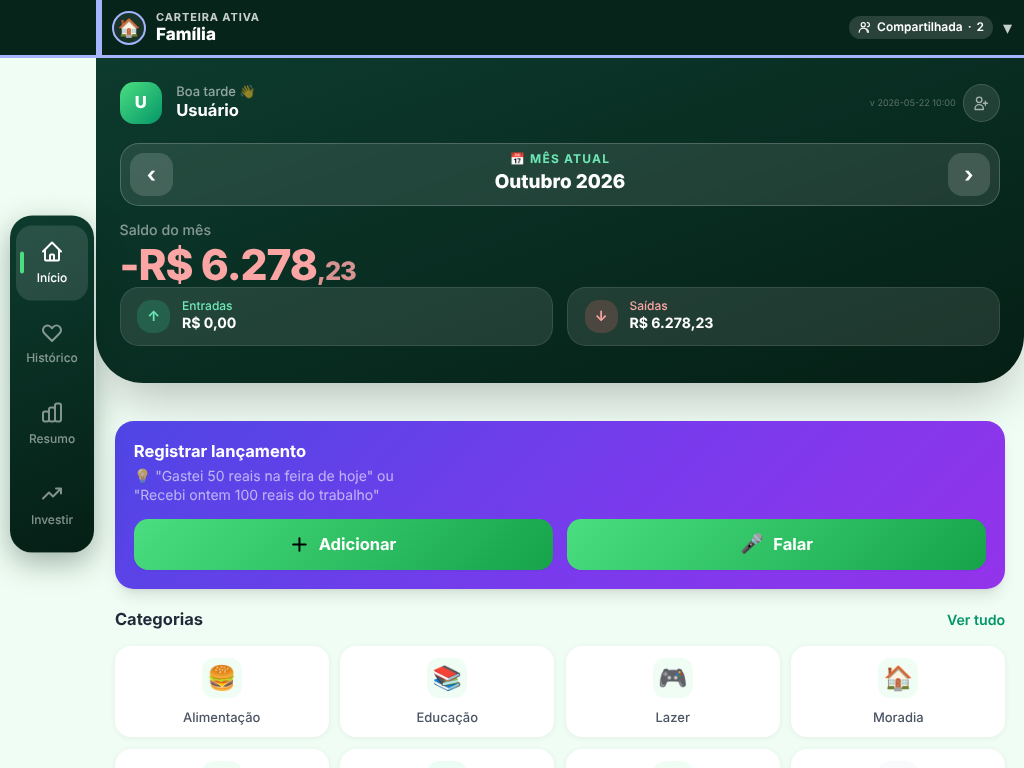
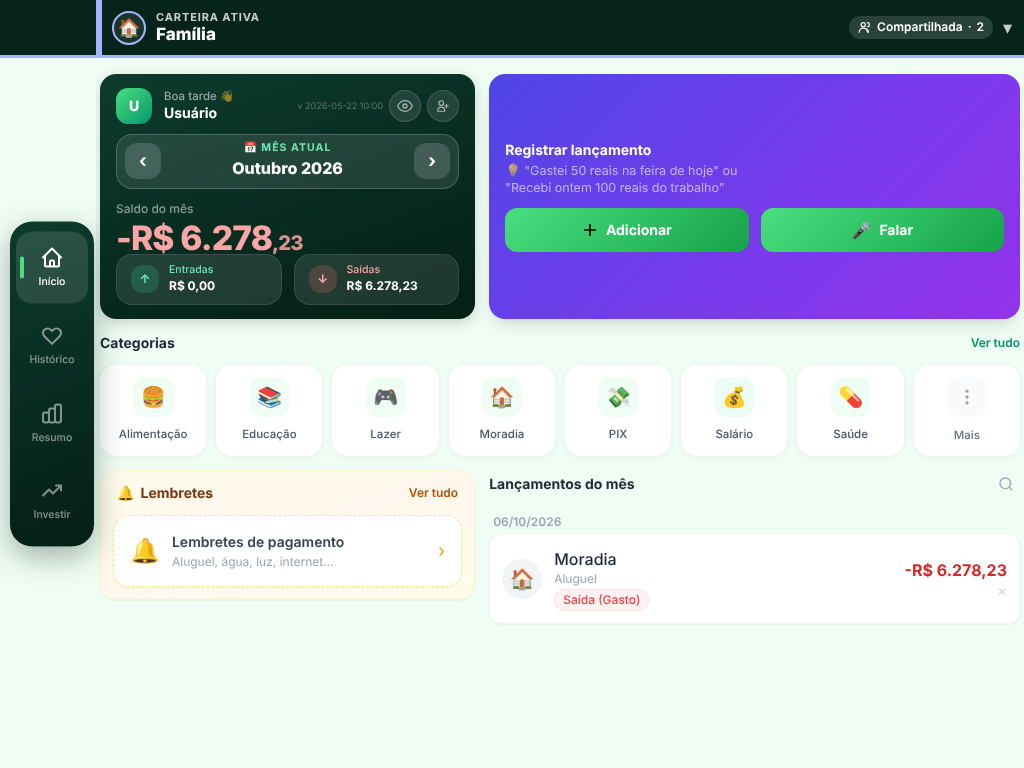
Desktop compacto em todas as telas: Inicio em grade, cabecalhos em cartoes, Resumo em 2 colunas, fonte normal
Claude-Session: https://claude.ai/code/session_01JewQ8trhSa9wiUKcrnXNgv

diff --git a/index.html b/index.html
@@ -162,21 +162,47 @@
             #toast { bottom: 2rem; }
             #offline-bar { left: 96px; }
         }
-        /* Desktop: fonte maior (tudo em rem escala junto) */
-        @media (min-width: 1024px) { html { font-size: 118%; } .tab-page { max-width: 1120px; } }
-        /* Textos com tamanho fixo em px (rótulos pequenos) também crescem no desktop */
+        /* Desktop compacto: fonte normal (100 %) e uma coluna de 1200 px; rótulos minúsculos em px sobem um pouco para ler bem */
         @media (min-width: 1024px) {
-            [class*="text-[9px]"]  { font-size: 12px !important; }
-            [class*="text-[10px]"] { font-size: 13px !important; }
-            [class*="text-[11px]"] { font-size: 14px !important; }
-            #bottom-nav .nav-tab .nav-label { font-size: 12px; }
+            html { font-size: 100%; }
+            .tab-page { max-width: 1200px; }
+            [class*="text-[9px]"]  { font-size: 10.5px !important; }
+            [class*="text-[10px]"] { font-size: 11.5px !important; }
+            [class*="text-[11px]"] { font-size: 12.5px !important; }
+            #bottom-nav .nav-tab .nav-label { font-size: 11px; }
         }
-        @media (min-width: 1440px) { html { font-size: 130%; } .tab-page { max-width: 1280px; } }
+        /* ═══ Desktop compacto (≥1024 px): blocos em grade, como no protótipo aprovado ═══ */
+        @media (min-width: 1024px) {
+            /* Início: saldo (5/12) + registrar (7/12) · categorias numa fileira · lembretes (5/12) + lançamentos (7/12) */
+            #tab-home:not(.hidden) { display: grid; grid-template-columns: repeat(12, minmax(0, 1fr)); gap: 14px; align-content: start; padding: 16px 4px 32px; }
+            #tab-home > .px-4.pt-4 { display: contents; }                        /* os blocos do meio viram itens da grade */
+            #tab-home .space-y-4 > * { margin-top: 0 !important; }
+            #home-header { grid-column: span 5; border-radius: 16px !important; padding: 14px 16px !important; box-shadow: 0 4px 14px rgba(6,36,26,.18) !important; }
+            #home-header #user-greeting { margin-bottom: 10px !important; }
+            #home-header .text-4xl { font-size: 2.1rem !important; }
+            #tab-home .home-reg { grid-column: span 7; display: flex; flex-direction: column; justify-content: center; }
+            #pwa-install-banner, #ios-install-banner { grid-column: span 12; }
+            #tab-home .home-cats { grid-column: span 12; }
+            #quick-cats-grid { grid-template-columns: repeat(8, minmax(0, 1fr)) !important; }
+            #tab-home .home-rem { grid-column: span 5; align-self: start; }
+            #tab-home .home-lan { grid-column: span 7; align-self: start; }
+            /* Histórico, Resumo e Investir: cabeçalho vira cartão arredondado dentro da coluna */
+            #tab-history { padding: 16px 4px 32px; }
+            #tab-history > .sticky { position: static; border: 1px solid #e5efe9; border-radius: 16px; }
+            #tab-summary { padding: 16px 4px 32px; }
+            #tab-summary > .bg-white { border: 1px solid #e5efe9; border-radius: 16px; }
+            #tab-investments { padding: 16px 4px 32px; }
+            #tab-investments > div:first-child { border-radius: 16px; }
+            /* Resumo: seções em 2 colunas (menos rolagem); no modo de reordenar volta a 1 coluna */
+            #summary-sections:not(.editing) { display: grid; grid-template-columns: repeat(2, minmax(0, 1fr)); gap: 14px; align-items: start; }
+            #summary-sections:not(.editing) > * { margin-top: 0 !important; }
+            #summary-sections:not(.editing) > [data-section-id="balance-cards"], #summary-sections:not(.editing) > [data-section-id="trend"], #summary-sections:not(.editing) > [data-section-id="insights"] { grid-column: span 2; }
+        }
         /* Desktop compacto: o menu deixa de colar na borda da tela e passa a ser um painel flutuante, vertical e centralizado,
            encostado na coluna do app (a mesma coluna onde ficam a barra de carteira e as abas). Em telas largas o conjunto
            menu + coluna fica junto no meio; em telas estreitas (sem espaço ao lado da coluna) o menu fica na borda, como antes. */
         @media (min-width: 1024px) {
-            :root { --app-col: 1120px; --nav-w: 84px; --nav-gap: 14px; }
+            :root { --app-col: 1200px; --nav-w: 84px; --nav-gap: 14px; }
             #bottom-nav {
                 left: max(10px, calc((100vw - var(--app-col) - 96px) / 2 + 96px - var(--nav-w) - var(--nav-gap) - 0px)) !important;
                 top: 50% !important; bottom: auto !important; transform: translateY(-50%) !important;
@@ -188,7 +214,6 @@
             /* o fundo da barra de carteira ocupa a largura toda (inclusive sob o espaço antes reservado ao menu) */
             #wallet-bar { margin-left: -96px !important; width: calc(100% + 96px) !important; padding-left: 96px !important; }   /* o conteúdo continua na coluna */
         }
-        @media (min-width: 1440px) { :root { --app-col: 1280px; } }
 
         /* ═══ Barra de carteira ativa (#wallet-bar): fixa no topo de todas as abas ═══ */
         #wallet-bar {
@@ -209,8 +234,7 @@
             display: flex; align-items: center; gap: 10px; height: 100%; box-sizing: border-box;
             max-width: var(--wb-col, none); margin: 0 auto; padding: 0 12px 0 0;
         }
-        @media (min-width: 1024px) { #wallet-bar { --wb-col: 1120px; } }
-        @media (min-width: 1440px) { #wallet-bar { --wb-col: 1280px; } }
+        @media (min-width: 1024px) { #wallet-bar { --wb-col: 1200px; } }
         #wallet-bar:focus-visible { outline: 3px solid #fff; outline-offset: -3px; }
         #wallet-bar .wb-strip { align-self: stretch; flex: none; width: 6px; background: var(--wallet-accent); }
         #wallet-bar .wb-avatar {
@@ -269,7 +293,7 @@
         .wallet-badge-active { flex: none; font-size: 11px; font-weight: 800; color: #06241a; background: var(--wallet-accent, #64748b); border-radius: 9999px; padding: 3px 10px; }
     </style>
     <!-- Tailwind compilado no build (npm run build:css) — depois do <style> acima, como o CDN anterior (que anexava seu <style> ao fim do <head>) -->
-    <link rel="stylesheet" href="css/app.css?v=20261106b">
+    <link rel="stylesheet" href="css/app.css?v=20261107a">
 </head>
 <body class="max-w-md mx-auto min-h-screen relative" style="background:var(--clr-bg)">
 
@@ -531,7 +555,7 @@
         </div>
 
         <!-- Quick Input -->
-        <div class="rounded-2xl overflow-hidden shadow-lg" style="background:linear-gradient(135deg,#4f46e5 0%,#7c3aed 60%,#9333ea 100%)">
+        <div class="home-reg rounded-2xl overflow-hidden shadow-lg" style="background:linear-gradient(135deg,#4f46e5 0%,#7c3aed 60%,#9333ea 100%)">
             <!-- input oculto: mantém compatibilidade com o JS de voz e NLP -->
             <input id="quick-input" type="text" class="hidden" autocomplete="off">
 
@@ -566,7 +590,7 @@
         </div>
 
         <!-- Categories section (Quick Access) -->
-        <div>
+        <div class="home-cats">
             <div class="flex items-center justify-between mb-3">
                 <p class="text-sm font-bold text-gray-800">Categorias</p>
                 <button id="open-categories-btn" class="text-xs text-emerald-600 font-semibold hover:text-emerald-700">Ver tudo</button>
@@ -577,7 +601,7 @@
         </div>
 
         <!-- Reminders Section — styled like "Great Deals" cards -->
-        <div class="bg-gradient-to-br from-amber-50 via-orange-50 to-yellow-50 rounded-2xl border border-amber-100 p-3 shadow-sm">
+        <div class="home-rem bg-gradient-to-br from-amber-50 via-orange-50 to-yellow-50 rounded-2xl border border-amber-100 p-3 shadow-sm">
             <div class="flex items-center justify-between mb-3 px-1">
                 <p class="text-sm font-bold text-amber-900 flex items-center gap-1.5">
                     <span>🔔</span>
@@ -599,7 +623,7 @@
         </div>
 
         <!-- Recent Transactions -->
-        <div>
+        <div class="home-lan">
             <div class="flex items-center gap-2 mb-2">
                 <p id="home-section-label" class="text-sm font-bold text-gray-800 flex-1">Lançamentos do mês</p>
                 <button id="home-search-toggle"

diff --git a/tests/static/desktop-layout.test.js b/tests/static/desktop-layout.test.js
@@ -6,12 +6,28 @@ const fs = require('node:fs');
 const path = require('node:path');
 const html = fs.readFileSync(path.join(__dirname, '..', '..', 'index.html'), 'utf8');
 
-test('--app-col acompanha o max-width de .tab-page (1120 px ≥1024, 1280 px ≥1440) — se um mudar, o menu e a barra desalinham', () => {
-  assert.match(html, /@media \(min-width: 1024px\) \{ html \{ font-size: 118%; \} \.tab-page \{ max-width: 1120px; \} \}/);
-  assert.match(html, /@media \(min-width: 1440px\) \{ html \{ font-size: 130%; \} \.tab-page \{ max-width: 1280px; \} \}/);
-  assert.match(html, /:root \{ --app-col: 1120px; --nav-w: 84px; --nav-gap: 14px; \}/);
-  assert.match(html, /@media \(min-width: 1440px\) \{ :root \{ --app-col: 1280px; \} \}/);
-  assert.match(html, /#wallet-bar \{ --wb-col: 1120px; \}/); assert.match(html, /#wallet-bar \{ --wb-col: 1280px; \}/);
+test('coluna única de 1200 px: --app-col, --wb-col e .tab-page iguais; fonte normal (100 %) no desktop', () => {
+  assert.match(html, /\.tab-page \{ max-width: 1200px; \}/);
+  assert.match(html, /:root \{ --app-col: 1200px; --nav-w: 84px; --nav-gap: 14px; \}/);
+  assert.match(html, /@media \(min-width: 1024px\) \{ #wallet-bar \{ --wb-col: 1200px; \} \}/);
+  assert.match(html, /html \{ font-size: 100%; \}/);
+  assert.doesNotMatch(html, /font-size: 118%|font-size: 130%/, 'o aumento de fonte no desktop foi removido');
+});
+
+test('Início em grade (saldo 5/12 + registrar 7/12, categorias em 8 colunas, lembretes 5/12 + lançamentos 7/12) sem quebrar o .hidden das abas', () => {
+  assert.match(html, /#tab-home:not\(\.hidden\) \{ display: grid;/);
+  assert.match(html, /#home-header \{ grid-column: span 5;/);
+  assert.match(html, /#tab-home \.home-reg \{ grid-column: span 7;/);
+  assert.match(html, /#quick-cats-grid \{ grid-template-columns: repeat\(8, minmax\(0, 1fr\)\) !important; \}/);
+  assert.match(html, /#tab-home \.home-rem \{ grid-column: span 5;/);
+  assert.match(html, /#tab-home \.home-lan \{ grid-column: span 7;/);
+  for (const c of ['home-reg', 'home-cats', 'home-rem', 'home-lan']) assert.equal((html.match(new RegExp(`class="${c}[ "]`, 'g')) || []).length, 1, c);
+  assert.doesNotMatch(html, /#tab-home \{ display: grid/, 'display:grid direto em #tab-home sobrepõe .hidden e mostra a Início em todas as abas');
+});
+
+test('Resumo em 2 colunas fora do modo de reordenar; cabeçalhos de Histórico/Resumo/Investir em cartões', () => {
+  assert.match(html, /#summary-sections:not\(\.editing\) \{ display: grid; grid-template-columns: repeat\(2, minmax\(0, 1fr\)\);/);
+  assert.match(html, /#tab-history > \.sticky \{ position: static;/);
 });
 
 test('menu lateral flutuante: encostado na coluna, centralizado na vertical, com cantos arredondados; barra de carteira com fundo de largura total', () => {

diff --git a/scripts/visual/desktop-layout.js b/scripts/visual/desktop-layout.js
@@ -19,7 +19,7 @@ const server = http.createServer((req, res) => {
   if (!f.startsWith(ROOT) || !fs.existsSync(f) || !fs.statSync(f).isFile()) { res.writeHead(404); return res.end(); }
   res.writeHead(200, { 'Content-Type': MIME[path.extname(f)] || 'application/octet-stream', 'Cache-Control': 'no-store' }); fs.createReadStream(f).pipe(res);
 });
-const SIZES = [[1024, 768], [1280, 800], [1440, 900], [1920, 1080], [2560, 1300], [3440, 1400]];
+const SIZES = [[1024, 768], [1280, 800], [1366, 768], [1440, 900], [1920, 1080], [2560, 1300], [3440, 1400]];
 (async () => {
   await new Promise(r => server.listen(0, '127.0.0.1', r));
   const base = `http://127.0.0.1:${server.address().port}`;
@@ -69,6 +69,10 @@ const SIZES = [[1024, 768], [1280, 800], [1440, 900], [1920, 1080], [2560, 1300]
     m.ok = m.semSobreposicao && m.barraNaColuna && m.navCentralizado && m.scrollW <= m.vw && m.nav.l >= 0 && (m.navColado <= 20 || m.nav.l <= 12);
     rel.medidas.push(m);
     await page.screenshot({ path: path.join(OUT, `inicio.${w}.png`), fullPage: false });
+    if (w === 1366 || w === 1920) for (const t of ['history', 'summary', 'investments']) {
+      await page.evaluate(tab => App.switchTab(tab), t); await page.waitForTimeout(700);
+      await page.screenshot({ path: path.join(OUT, `${t}.${w}.png`), fullPage: false });
+    }
     await ctx.close();
   }
   await browser.close(); server.close();

diff --git a/docs/qa/RELATORIO-DESKTOP-COMPACTO.md b/docs/qa/RELATORIO-DESKTOP-COMPACTO.md
@@ -1,0 +1,19 @@
+# Desktop compacto (≥ 1024 px) — protótipo aprovado aplicado a todas as telas
+
+Só CSS/HTML de layout em `index.html` (tudo dentro de `@media (min-width: 1024px)`: **celular e tablet não mudam**). Sem mudanças de banco.
+
+| Tela | O que mudou no desktop |
+|---|---|
+| Início | grade de 12 colunas: saldo (5/12) + registrar lançamento (7/12); categorias numa fileira de 8; lembretes (5/12) + lançamentos do mês (7/12) |
+| Histórico | cabeçalho vira cartão arredondado (não gruda mais no topo); lista na coluna |
+| Resumo | cabeçalho em cartão; seções em 2 colunas (cartões de saldo, insights e evolução ocupam a largura toda); ao entrar em "Editar layout" volta a 1 coluna para o arrastar funcionar |
+| Investir | cabeçalho em cartão arredondado; conteúdo na coluna |
+| Barra de carteira | fundo na largura toda; conteúdo na coluna de 1200 px |
+| Menu lateral | painel flutuante vertical, encostado na coluna (14 px de folga) |
+| Tipografia | fonte normal (100 %): o aumento para 118 %/130 % foi removido; rótulos de 9/10/11 px sobem para 10,5/11,5/12,5 px |
+| Modais | já eram centralizados a partir de 768 px; sem mudança |
+
+**Verificação (Chromium, 7 larguras de 1024 a 3440 px):** a barra de carteira e a aba visível têm exatamente a mesma coluna; o menu não sobrepõe a coluna; sem overflow horizontal; 0 erros de console. `tests/static/desktop-layout.test.js` trava as regras (inclusive que `#tab-home` não use `display:grid` direto, o que mostraria a Início em todas as abas). Capturas: `docs/qa/visual/desktop-compacto/` (Início em 7 larguras; Histórico, Resumo e Investir em 1366 e 1920 px). Protótipo: `docs/qa/prototipos/`.
+
+**Diferenças conscientes em relação ao protótipo:** o cartão "Registrar lançamento" do app tem só os botões Adicionar e Falar (sem campo de texto, como no app atual); lembretes e lançamentos usam os componentes reais.
+**Como reverter:** `git revert` do commit do layout; nada além de CSS/HTML estático é afetado.
